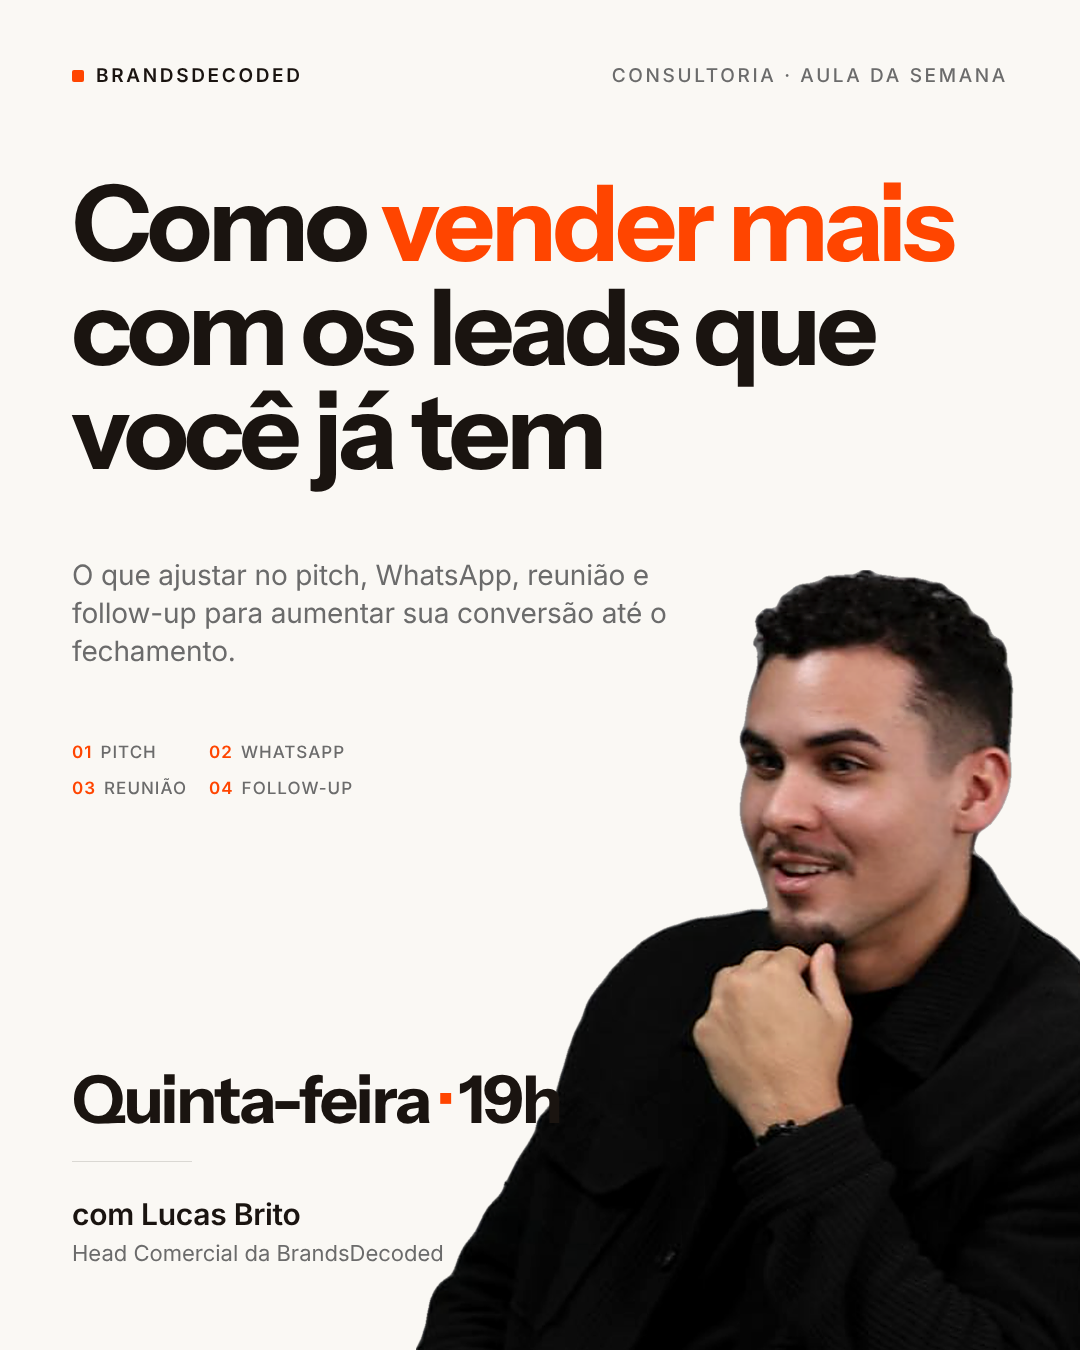
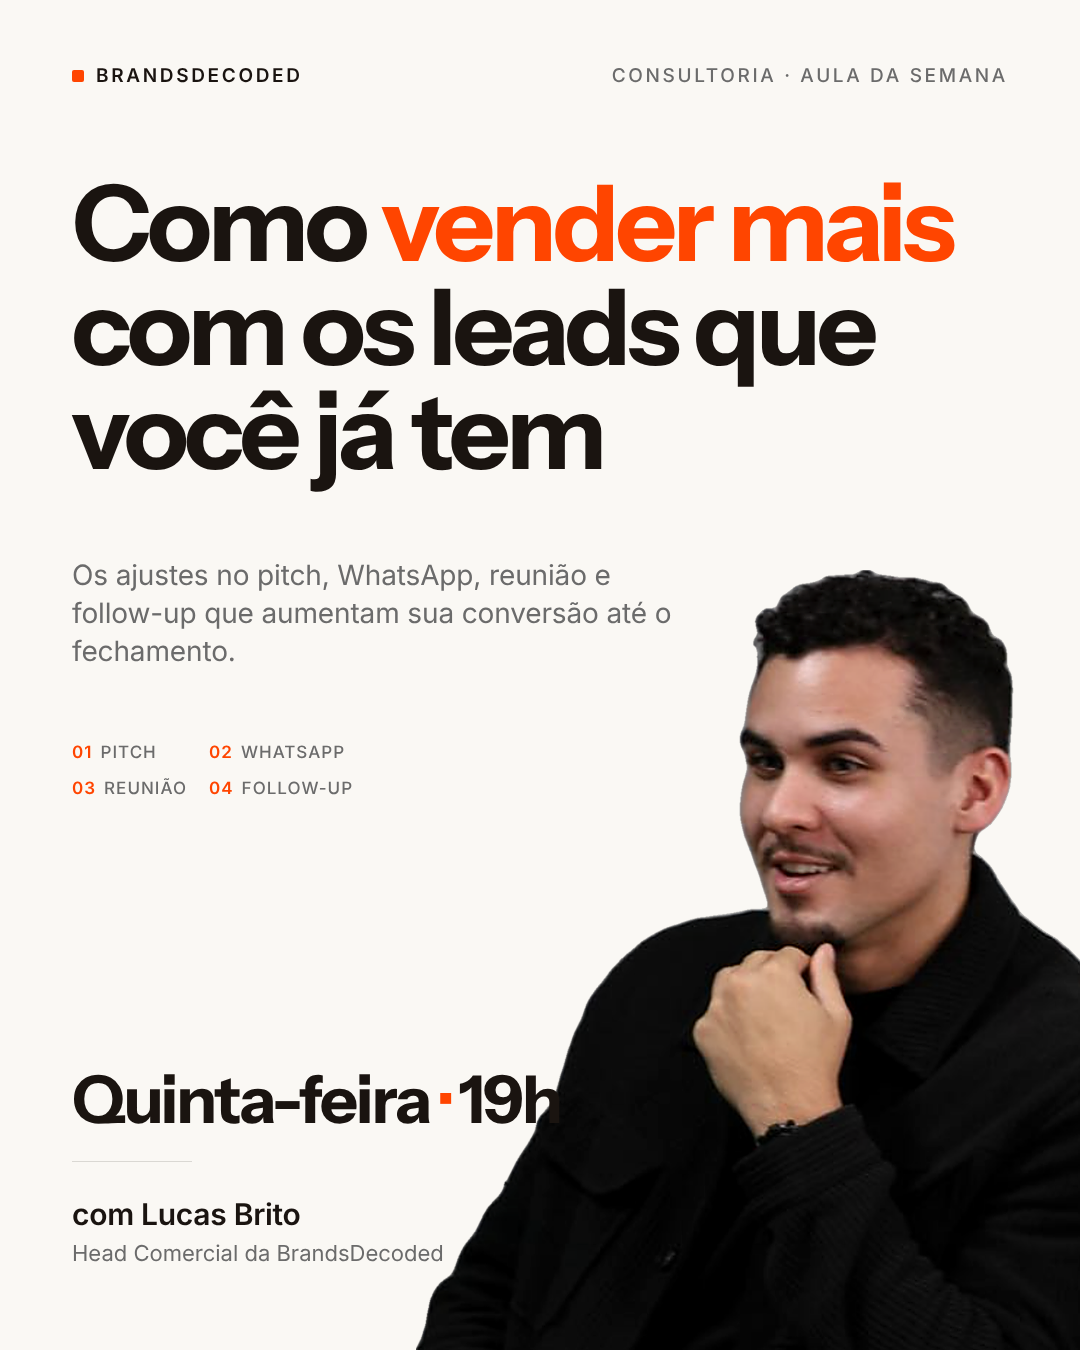
feat: Adjust subtitle and add Blueprint version of class art
Rewrite the subtitle as requested and parametrize the top label so the
same source renders the Consultoria and Mentoria Blueprint versions, in
dark and light variants.

Claude-Session: https://claude.ai/code/session_01Jw9Cyu7SyK5pLCb84CySfE

Changed region(s): [[0.0917, 0.4044, 0.6111, 0.4667]]

diff --git a/artes/aula-leads-lucas-brito/arte.html b/artes/aula-leads-lucas-brito/arte.html
@@ -44,12 +44,12 @@
 <body>
   <div class="pad top">
     <div class="brand"><i></i>BrandsDecoded</div>
-    <div class="label">Consultoria · Aula da semana</div>
+    <div class="label"><span id="program">Consultoria</span> · Aula da semana</div>
   </div>
 
   <h1 class="pad title">Como <em>vender mais</em> com os leads que você já tem</h1>
 
-  <p class="pad sub">O que ajustar no pitch, WhatsApp, reunião e follow-up para aumentar sua conversão até o fechamento.</p>
+  <p class="pad sub">Os ajustes no pitch, WhatsApp, reunião e follow-up que aumentam sua conversão até o fechamento.</p>
 
   <div class="pad steps">
     <span><b>01</b>Pitch</span><span class="arr">→</span>

diff --git a/artes/aula-leads-lucas-brito/render.py b/artes/aula-leads-lucas-brito/render.py
@@ -1,12 +1,14 @@
 import sys, asyncio
 from playwright.async_api import async_playwright
 html, out, theme = sys.argv[1], sys.argv[2], (sys.argv[3] if len(sys.argv)>3 else "light")
+program = sys.argv[4] if len(sys.argv)>4 else "Consultoria"  # texto do rótulo no topo
 async def main():
     async with async_playwright() as p:
         b = await p.chromium.launch(executable_path="/opt/pw-browsers/chromium-1194/chrome-linux/chrome")
         pg = await b.new_page(viewport={"width":1080,"height":1350}, device_scale_factor=1)
         await pg.goto("file://"+html)
         if theme=="dark": await pg.evaluate("document.documentElement.classList.add('dark')")
+        await pg.evaluate("p => document.getElementById('program').textContent = p", program)
         await pg.evaluate("document.fonts.ready")
         await pg.wait_for_timeout(300)
         await pg.screenshot(path=out, clip={"x":0,"y":0,"width":1080,"height":1350})

diff --git a/artes/aula-leads-lucas-brito/README.md b/artes/aula-leads-lucas-brito/README.md
@@ -5,8 +5,10 @@ off-white `#FAF8F4`, laranja `#FF4500`, Instrument Sans (display) e Inter (texto
 
 | Arquivo | O que é |
 |---|---|
-| `arte-aula-leads-lucas-brito-1080x1350.png` | Arte final, versão escura (principal) |
-| `arte-aula-leads-lucas-brito-1080x1350-clara.png` | Variante em fundo off-white |
+| `arte-aula-leads-lucas-brito-1080x1350.png` | Consultoria, versão escura (principal) |
+| `arte-aula-leads-lucas-brito-1080x1350-clara.png` | Consultoria, fundo off-white |
+| `arte-aula-leads-lucas-brito-blueprint-1080x1350.png` | Mentoria Blueprint, versão escura |
+| `arte-aula-leads-lucas-brito-blueprint-1080x1350-clara.png` | Mentoria Blueprint, fundo off-white |
 | `arte.html` | Fonte editável da arte (HTML/CSS) |
 | `assets/lucas-brito-enhanced.png` | Foto original ampliada 2x e nitidez recuperada |
 | `assets/lucas-brito-cutout.png` | Foto tratada com fundo removido (usada na arte) |
@@ -17,7 +19,7 @@ off-white `#FAF8F4`, laranja `#FF4500`, Instrument Sans (display) e Inter (texto
 
 ```bash
 pip install playwright
-python3 render.py "$PWD/arte.html" saida.png dark    # ou "light"
+python3 render.py "$PWD/arte.html" saida.png dark Consultoria   # tema: dark|light · rótulo: Consultoria|Blueprint
 ```
 
 O script usa o Chromium em `/opt/pw-browsers`; ajuste `executable_path` se o caminho for outro.
